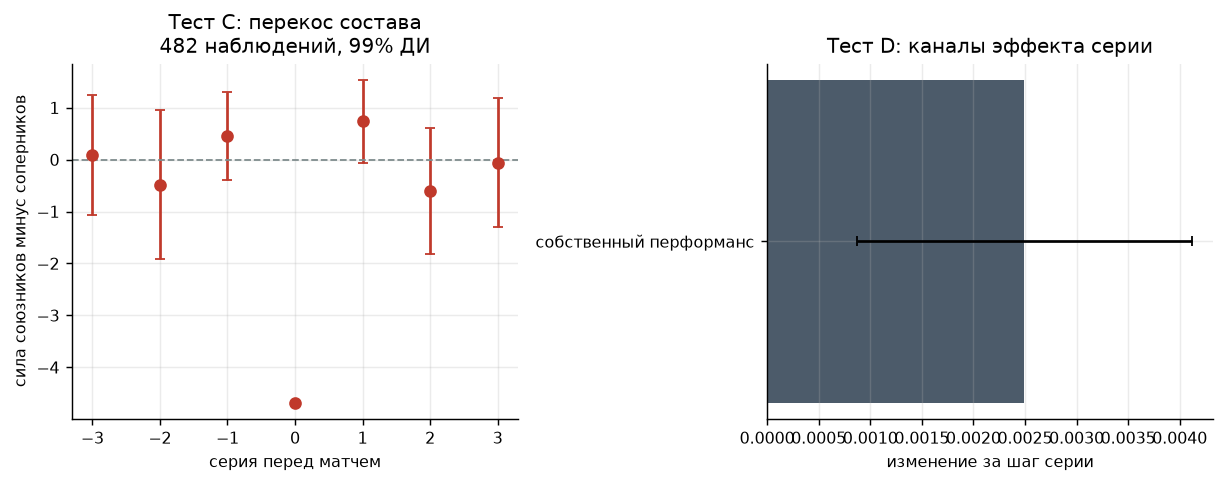
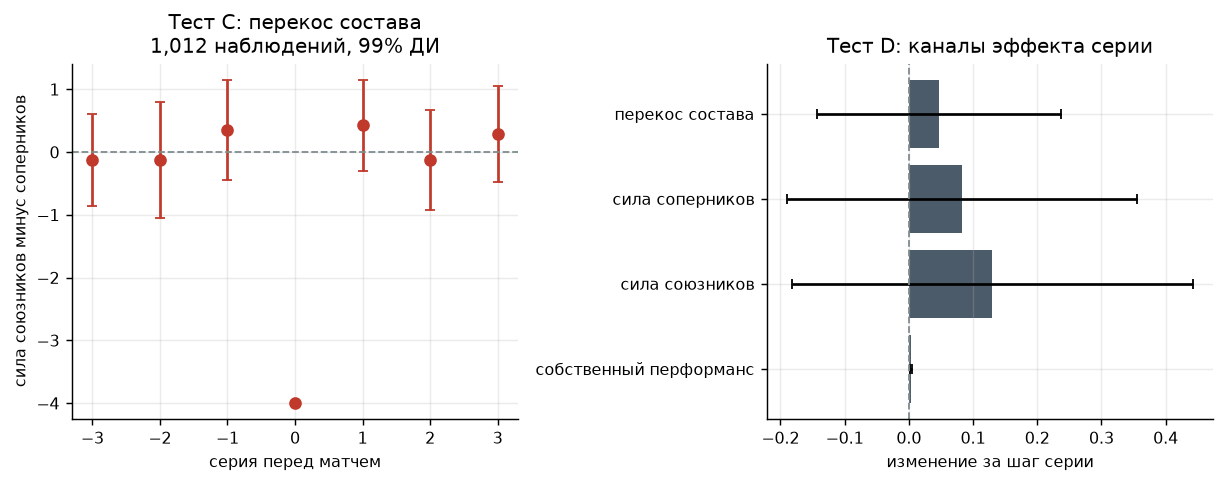
dota-mm-study: перевод границы теста C в вероятность победы
Наклон перекоса состава измеряется в единицах ранга и напрямую несопоставим с
эффектом серии. Переводной коэффициент оценивается по данным, что превращает
нулевой результат теста C в количественную границу: подбор состава может менять
шанс на победу не более чем на 0.24 п.п. за шаг серии.

diff --git a/dota-mm-study/scripts/run_tests_cd.py b/dota-mm-study/scripts/run_tests_cd.py
@@ -52,6 +52,14 @@ def main() -> None:
     )
     log.info("наблюдений с достаточным составом: %s", f"{len(obs):,}")
 
+    # Проверка на устойчивость: та же оценка, но силой служит только ранг из
+    # данных матча. Смешивание двух разных измерителей могло бы создать мнимую
+    # асимметрию, если доступность независимой оценки различается у союзников и
+    # соперников, поэтому основной вывод обязан выдерживать однородную меру.
+    obs_rank_only = roster_stats.build_roster_observations(
+        roster, focal, skill_column="rank_tier", external_skill=None
+    )
+
     results: dict[str, object] = {}
 
     # ---- Тест C ----------------------------------------------------------
@@ -90,6 +98,31 @@ def main() -> None:
                 lo,
                 hi,
             )
+            # Перевод в вероятность победы, чтобы границу можно было сравнить
+            # с эффектом серии из теста B.
+            value, value_se = roster_stats.delta_value_in_winrate(obs)
+            channel = roster_stats.roster_channel_in_winrate(
+                float(slope.coef[0]), float(slope.se[0]), value, value_se
+            )
+            if channel:
+                log.info(
+                    "  единица перекоса стоит %+.4f вероятности победы (SE %.4f)",
+                    value,
+                    value_se,
+                )
+                log.info(
+                    "  вклад канала состава в эффект серии: %+.5f, 99%% ДИ [%+.5f, %+.5f]",
+                    channel["effect"],
+                    channel["lo"],
+                    channel["hi"],
+                )
+                db.record_finding(
+                    conn, "C_roster", "channel_in_winrate", channel["effect"],
+                    channel["lo"], channel["hi"], asym["n"],
+                    "вклад подбора состава в эффект серии, в вероятности победы",
+                )
+                results["roster_channel_winrate"] = channel
+                results["delta_value"] = {"coef": value, "se": value_se}
             db.record_finding(
                 conn, "C_roster", "delta_slope", float(slope.coef[0]), lo, hi,
                 asym["n"], "перекос состава как функция серии; ноль — честный подбор",
@@ -100,6 +133,28 @@ def main() -> None:
             asym["mean_delta"] + 2.576 * asym["se_delta"],
             asym["n"],
         )
+
+        asym_rank = roster_stats.test_asymmetry(obs_rank_only, max_streak=args.max_streak)
+        if asym_rank.get("n", 0) > 0 and asym_rank.get("slope") is not None:
+            log.info(
+                "устойчивость (только ранг из матча): наклон %+.5f ± %.5f по %s наблюдениям",
+                asym_rank["slope"].coef[0],
+                asym_rank["slope"].se[0],
+                f"{asym_rank['n']:,}",
+            )
+            db.record_finding(
+                conn, "C_roster", "delta_slope_rank_only",
+                float(asym_rank["slope"].coef[0]),
+                *asym_rank["slope"].ci("streak"),
+                n=asym_rank["n"],
+                note="проверка на однородной мере силы",
+            )
+            results["test_c_rank_only"] = {
+                "n": asym_rank["n"],
+                "slope": float(asym_rank["slope"].coef[0]),
+                "slope_se": float(asym_rank["slope"].se[0]),
+                "mean_delta": asym_rank["mean_delta"],
+            }
         results["test_c"] = {
             "n": asym["n"],
             "n_players": asym["n_players"],

diff --git a/dota-mm-study/dota_study/stats/roster.py b/dota-mm-study/dota_study/stats/roster.py
@@ -145,6 +145,48 @@ def test_asymmetry(obs: pd.DataFrame, max_streak: int = 3) -> dict[str, object]:
     }
 
 
+def delta_value_in_winrate(obs: pd.DataFrame) -> tuple[float, float]:
+    """Во сколько побед обходится единица перекоса состава.
+
+    Наклон перекоса измеряется в единицах ранга, а эффект серии — в вероятности
+    победы, и напрямую их не сравнить. Переводной коэффициент оценивается прямо
+    по данным: насколько меняется исход матча при изменении перекоса на единицу.
+    """
+    if obs.empty or "win" not in obs:
+        return float("nan"), float("nan")
+    usable = obs.dropna(subset=["delta", "win"])
+    counts = usable["account_id"].map(usable["account_id"].value_counts())
+    usable = usable[counts >= 2]
+    if len(usable) < 50:
+        return float("nan"), float("nan")
+    fe = fixed_effects_lpm(
+        usable["win"].to_numpy(dtype=float),
+        np.column_stack([usable["delta"].to_numpy(dtype=float)]),
+        usable["account_id"].to_numpy(),
+        ["delta"],
+    )
+    return float(fe.coef[0]), float(fe.se[0])
+
+
+def roster_channel_in_winrate(
+    delta_slope: float, delta_slope_se: float, value: float, value_se: float
+) -> dict[str, float]:
+    """Вклад канала состава в эффект серии, выраженный в вероятности победы.
+
+    Произведение двух оценок; неопределённость считается дельта-методом.
+    """
+    if not all(np.isfinite([delta_slope, delta_slope_se, value, value_se])):
+        return {}
+    effect = delta_slope * value
+    se = np.sqrt((value * delta_slope_se) ** 2 + (delta_slope * value_se) ** 2)
+    return {
+        "effect": float(effect),
+        "se": float(se),
+        "lo": float(effect - 2.576 * se),
+        "hi": float(effect + 2.576 * se),
+    }
+
+
 def decompose_streak(
     sample: pd.DataFrame, obs: pd.DataFrame, max_streak: int = 4
 ) -> dict[str, object]:
